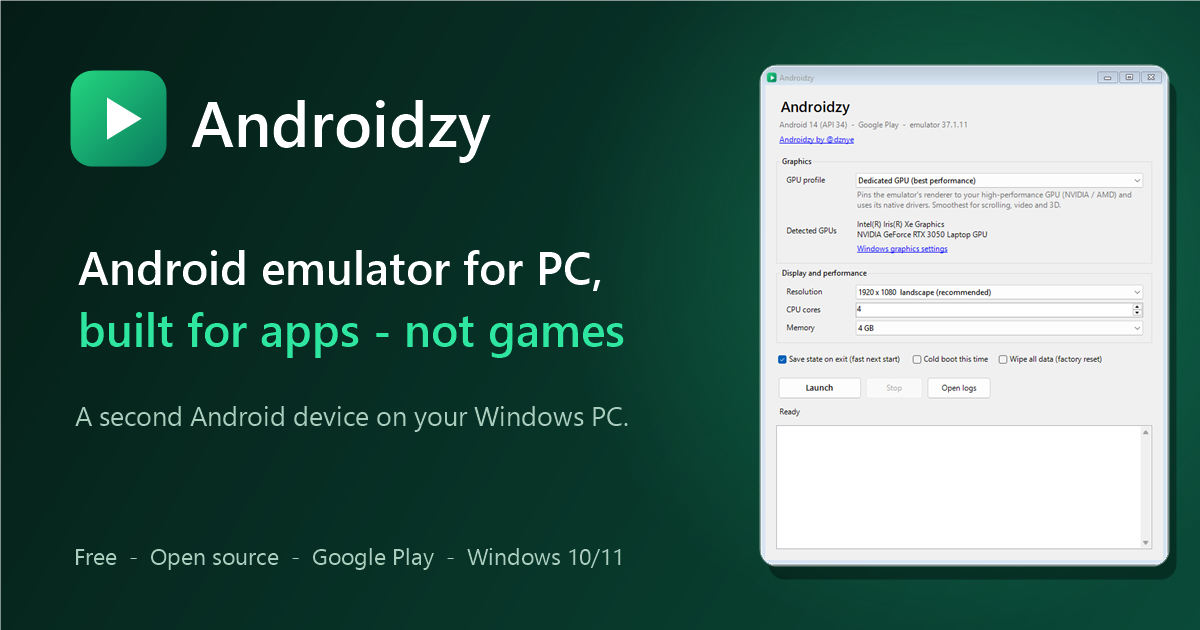
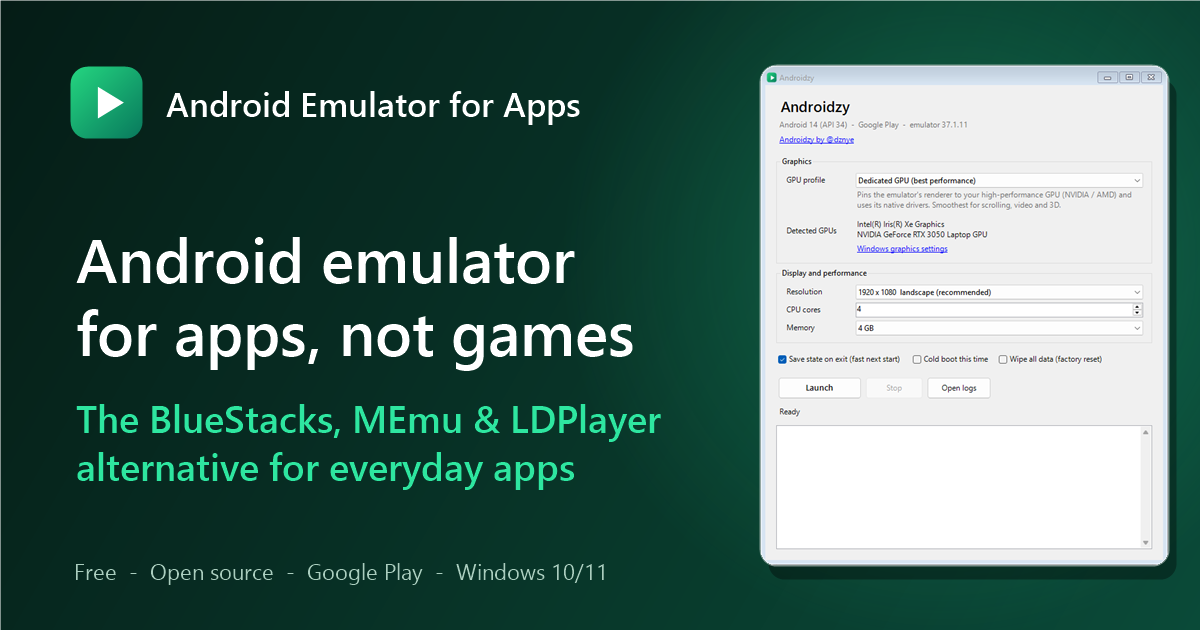
Re-brand the landing page around what people search for
Lead with "Android emulator for apps" and the BlueStacks / MEmu / LDPlayer
alternative framing in the title, H1, headings, FAQ and comparison table.
Androidzy stays the name of the app itself (download, window, structured
data), not the page brand. Honest trade-off section, trademark disclaimer,
new social card, shorter header name on phones.

diff --git a/docs/index.html b/docs/index.html
@@ -3,25 +3,25 @@
 <head>
 <meta charset="utf-8">
 <meta name="viewport" content="width=device-width, initial-scale=1">
-<title>Androidzy: Free Android Emulator for PC to Run Apps</title>
-<meta name="description" content="Androidzy is a free, open-source Android emulator for Windows built for apps, not games. Run Google Play apps on your PC as a second device.">
+<title>BlueStacks, MEmu &amp; LDPlayer Alternative | Android Emulator</title>
+<meta name="description" content="Free Android emulator for PC built for apps, not games. A BlueStacks, LDPlayer, MEmu and MuMu Player alternative with Google Play. Open source.">
 <link rel="canonical" href="https://dznye.github.io/Androidzy/">
 <meta name="robots" content="index, follow, max-image-preview:large">
 <meta name="theme-color" content="#0a7a55">
 <link rel="icon" type="image/svg+xml" href="favicon.svg">
 
 <meta property="og:type" content="website">
-<meta property="og:site_name" content="Androidzy">
-<meta property="og:title" content="Androidzy: Free Android Emulator for PC to Run Apps">
-<meta property="og:description" content="A second Android device on your Windows PC. Google Play, official Google emulator, GPU profiles. Built for apps, not games. Free and open source.">
+<meta property="og:site_name" content="Android Emulator for Apps">
+<meta property="og:title" content="BlueStacks, MEmu &amp; LDPlayer Alternative | Android Emulator">
+<meta property="og:description" content="A free alternative to BlueStacks, LDPlayer, MEmu and MuMu Player, built for apps instead of games: Android 14 with Google Play on your Windows PC, as a second device.">
 <meta property="og:url" content="https://dznye.github.io/Androidzy/">
 <meta property="og:image" content="https://dznye.github.io/Androidzy/og.png">
 <meta property="og:image:width" content="1200">
 <meta property="og:image:height" content="630">
-<meta property="og:image:alt" content="Androidzy: Android emulator for PC, built for apps, not games">
+<meta property="og:image:alt" content="Android emulator for apps: a BlueStacks, MEmu and LDPlayer alternative">
 <meta name="twitter:card" content="summary_large_image">
-<meta name="twitter:title" content="Androidzy: Free Android Emulator for PC to Run Apps">
-<meta name="twitter:description" content="A second Android device on your Windows PC. Google Play, official Google emulator, GPU profiles. Free and open source.">
+<meta name="twitter:title" content="BlueStacks, MEmu &amp; LDPlayer Alternative | Android Emulator">
+<meta name="twitter:description" content="Free Android emulator for PC built for apps, not games. Google Play, official Google emulator, GPU profiles. Open source.">
 <meta name="twitter:image" content="https://dznye.github.io/Androidzy/og.png">
 
 <script type="application/ld+json">
@@ -29,9 +29,11 @@
   "@context": "https://schema.org",
   "@type": "SoftwareApplication",
   "name": "Androidzy",
-  "description": "A free, open-source Android emulator launcher for Windows, built for running Android apps on a PC as a second device. Runs Google's official Android emulator with Google Play and GPU profiles.",
+  "alternateName": ["Androidzy Android emulator", "Android emulator for apps"],
+  "description": "Androidzy is a free, open-source Android emulator for Windows PC, built for running apps rather than games. An alternative to BlueStacks, LDPlayer, MEmu and MuMu Player that runs Google's official Android emulator with Google Play and GPU profiles.",
   "url": "https://dznye.github.io/Androidzy/",
   "applicationCategory": "UtilitiesApplication",
+  "applicationSubCategory": "Android emulator",
   "operatingSystem": "Windows 10, Windows 11",
   "softwareVersion": "1.0.0",
   "license": "https://opensource.org/license/mit",
@@ -59,8 +61,18 @@
   "mainEntity": [
     {
       "@type": "Question",
+      "name": "What is the best BlueStacks, MEmu or LDPlayer alternative for running apps?",
+      "acceptedAnswer": { "@type": "Answer", "text": "If you mostly run everyday apps rather than games, Androidzy is a simpler alternative. It launches Google's official Android emulator with Google Play and Android 14 on Windows, with no keymapping, macros or game store in the way. If you need keymapping, macros or several instances at once, BlueStacks, LDPlayer, MEmu or MuMu Player fit better." }
+    },
+    {
+      "@type": "Question",
       "name": "Is there an Android emulator for PC that is made for apps, not games?",
       "acceptedAnswer": { "@type": "Answer", "text": "Androidzy is. It runs the official Google Android Emulator with Google Play on Windows, but it is set up for everyday apps: a clean Android 14 device that starts in seconds, stays signed in, and has no keymapping, macros or game store in the way." }
+    },
+    {
+      "@type": "Question",
+      "name": "What is Androidzy?",
+      "acceptedAnswer": { "@type": "Answer", "text": "Androidzy is the name of the app. It is a free, open-source launcher for Google's official Android Emulator, set up for running apps on Windows. That is the name you will see on the download and in the app window." }
     },
     {
       "@type": "Question",
@@ -69,7 +81,7 @@
     },
     {
       "@type": "Question",
-      "name": "Can I use Androidzy as a second phone to keep work and personal accounts apart?",
+      "name": "Can I use it as a second phone to keep work and personal accounts apart?",
       "acceptedAnswer": { "@type": "Answer", "text": "Yes. Androidzy gives you a separate Android 14 device on your PC with its own Google account, apps and data, so work chat, email and social accounts stay apart from your personal phone. Use it for accounts you own or are authorised to manage." }
     },
     {
@@ -79,28 +91,23 @@
     },
     {
       "@type": "Question",
-      "name": "Does Androidzy include Google Play?",
+      "name": "Does it include Google Play?",
       "acceptedAnswer": { "@type": "Answer", "text": "It uses Google's official Android 14 system image with Google Play. Nothing from Google is bundled with Androidzy. On first run it downloads the emulator and image from Google's servers (about 2 GB) after you accept Google's license, or it reuses an Android Studio SDK you already have." }
     },
     {
       "@type": "Question",
-      "name": "Will banking and streaming apps work in Androidzy?",
+      "name": "Will banking and streaming apps work in an emulator?",
       "acceptedAnswer": { "@type": "Answer", "text": "Some may not. Banking, payment and DRM-protected streaming apps often check that they run on a certified physical phone and may block or limit any emulator. Androidzy does not try to hide that it is an emulator, so use a real phone for apps that require one." }
     },
     {
       "@type": "Question",
-      "name": "Is Androidzy free and safe?",
+      "name": "Is it free and safe?",
       "acceptedAnswer": { "@type": "Answer", "text": "It is free. The launcher is open source under the MIT license, so you can read exactly what it does, and emulator usage metrics are switched off. The download is not code-signed yet, so Windows SmartScreen may show a warning. You can also build it yourself from source." }
     },
     {
       "@type": "Question",
-      "name": "What do I need to run Androidzy?",
+      "name": "What do I need to run it?",
       "acceptedAnswer": { "@type": "Answer", "text": "Windows 10 or 11 (64-bit), a CPU with virtualization turned on in the BIOS, the Windows Hypervisor Platform feature, 8 GB of RAM (4 GB goes to Android by default) and about 6 GB of free disk space." }
-    },
-    {
-      "@type": "Question",
-      "name": "Is Androidzy an alternative to BlueStacks, LDPlayer or MuMu?",
-      "acceptedAnswer": { "@type": "Answer", "text": "For everyday apps, yes. Those players are built around games, with keymapping, macros and many simultaneous instances. Androidzy does less on purpose: one clean Android 14 device with GPU profiles. If you need keymapping or many instances at once, a gaming emulator fits better." }
     }
   ]
 }
@@ -137,22 +144,24 @@ a:hover{color:var(--accent-hover)}
 /* header */
 header.site{position:sticky;top:0;z-index:10;background:color-mix(in srgb,var(--bg) 88%,transparent);backdrop-filter:saturate(1.4) blur(10px);border-bottom:1px solid var(--line)}
 header.site .wrap{display:flex;align-items:center;gap:20px;height:64px}
-.brand{display:flex;align-items:center;gap:10px;font-weight:700;font-size:1.15rem;color:var(--text);text-decoration:none}
-.brand svg{width:30px;height:30px}
-nav{margin-left:auto;display:flex;align-items:center;gap:6px}
+.brand{display:flex;align-items:center;gap:10px;font-weight:700;font-size:1.05rem;color:var(--text);text-decoration:none;min-width:0}
+.brand svg{width:30px;height:30px;flex:none}
+.brand span{overflow:hidden;text-overflow:ellipsis;white-space:nowrap}
+@media (max-width:480px){.brand .wide{display:none}}
+nav{margin-left:auto;display:flex;align-items:center;gap:6px;flex:none}
 nav a{color:var(--muted);text-decoration:none;padding:8px 12px;border-radius:8px;font-size:.95rem}
 nav a:hover{color:var(--text);background:var(--soft)}
 nav a.btn-sm{background:var(--accent);color:var(--on-accent);font-weight:600}
 nav a.btn-sm:hover{background:var(--accent-hover);color:var(--on-accent)}
-@media (max-width:760px){nav a:not(.btn-sm){display:none}}
+@media (max-width:860px){nav a:not(.btn-sm){display:none}}
 
 /* hero */
 .hero{padding:64px 0 40px;background:radial-gradient(900px 400px at 85% -10%,color-mix(in srgb,var(--accent) 16%,transparent),transparent 70%)}
 .hero .wrap{display:grid;grid-template-columns:1.1fr .9fr;gap:48px;align-items:center}
 .eyebrow{display:inline-block;background:var(--soft);color:var(--soft-text);font-weight:600;font-size:.85rem;padding:6px 12px;border-radius:999px;margin:0 0 18px}
-h1{font-size:clamp(2.1rem,4.6vw,3.4rem);line-height:1.1;letter-spacing:-.02em;margin:0 0 18px}
+h1{font-size:clamp(1.9rem,4vw,3rem);line-height:1.12;letter-spacing:-.02em;margin:0 0 18px}
 h1 em{font-style:normal;color:var(--accent)}
-.lead{font-size:1.15rem;color:var(--muted);margin:0 0 26px;max-width:36em}
+.lead{font-size:1.12rem;color:var(--muted);margin:0 0 26px;max-width:36em}
 .cta{display:flex;flex-wrap:wrap;gap:12px;margin-bottom:22px}
 .btn{display:inline-flex;align-items:center;gap:8px;padding:13px 22px;border-radius:12px;font-weight:650;text-decoration:none;border:1px solid transparent;font-size:1rem}
 .btn.primary{background:var(--accent);color:var(--on-accent)}
@@ -168,7 +177,7 @@ h1 em{font-style:normal;color:var(--accent)}
 /* sections */
 section{padding:64px 0}
 section.alt{background:var(--surface);border-top:1px solid var(--line);border-bottom:1px solid var(--line)}
-h2{font-size:clamp(1.55rem,3vw,2.15rem);line-height:1.2;letter-spacing:-.015em;margin:0 0 12px}
+h2{font-size:clamp(1.5rem,3vw,2.1rem);line-height:1.2;letter-spacing:-.015em;margin:0 0 12px}
 .sub{color:var(--muted);max-width:42em;margin:0 0 34px;font-size:1.05rem}
 .grid{display:grid;grid-template-columns:repeat(auto-fit,minmax(290px,1fr));gap:18px}
 .card{background:var(--surface);border:1px solid var(--line);border-radius:var(--radius);padding:24px}
@@ -179,10 +188,11 @@ section.alt .card{background:var(--bg)}
 .notice{margin-top:26px;background:var(--warn-bg);border:1px solid var(--warn-line);color:var(--warn-text);border-radius:var(--radius);padding:18px 22px}
 .notice strong{display:block;margin-bottom:4px}
 .notice p{margin:0}
+.fair{margin-top:22px;color:var(--muted)}
 
 /* steps */
 ol.steps{list-style:none;margin:0 0 30px;padding:0;display:grid;grid-template-columns:repeat(auto-fit,minmax(230px,1fr));gap:18px;counter-reset:s}
-ol.steps li{counter-increment:s;background:var(--bg);border:1px solid var(--line);border-radius:var(--radius);padding:22px 22px 22px 22px}
+ol.steps li{counter-increment:s;background:var(--bg);border:1px solid var(--line);border-radius:var(--radius);padding:22px}
 ol.steps li::before{content:counter(s);display:grid;place-items:center;width:34px;height:34px;border-radius:50%;background:var(--accent);color:var(--on-accent);font-weight:700;margin-bottom:12px}
 ol.steps h3{margin:0 0 6px;font-size:1.05rem}
 ol.steps p{margin:0;color:var(--muted)}
@@ -223,17 +233,17 @@ footer p{margin:6px 0 0;max-width:46em}
 
 <header class="site">
   <div class="wrap">
-    <a class="brand" href="./" aria-label="Androidzy home">
+    <a class="brand" href="./" aria-label="Android emulator for apps - home">
       <svg viewBox="0 0 64 64" aria-hidden="true"><defs><linearGradient id="g" x1="0" y1="0" x2="1" y2="1"><stop offset="0" stop-color="#24d680"/><stop offset="1" stop-color="#08785c"/></linearGradient></defs><rect width="64" height="64" rx="14" fill="url(#g)"/><path d="M24 18v28l22-14z" fill="#fff"/></svg>
-      Androidzy
+      <span>Android Emulator<span class="wide"> for Apps</span></span>
     </a>
     <nav aria-label="Primary">
+      <a href="#why-alternative">Alternative to</a>
       <a href="#use-cases">Use cases</a>
-      <a href="#features">Features</a>
       <a href="#how-it-works">How it works</a>
       <a href="#compare">Compare</a>
       <a href="#faq">FAQ</a>
-      <a class="btn-sm" href="https://github.com/dznye/Androidzy">GitHub</a>
+      <a class="btn-sm" href="https://github.com/dznye/Androidzy/releases/latest/download/Androidzy.exe" rel="nofollow">Download</a>
     </nav>
   </div>
 </header>
@@ -243,9 +253,9 @@ footer p{margin:6px 0 0;max-width:46em}
 <section class="hero" aria-labelledby="top">
   <div class="wrap">
     <div>
-      <p class="eyebrow">Free Android emulator for Windows</p>
-      <h1 id="top">Android emulator for PC, built for apps <em>&mdash; not games</em></h1>
-      <p class="lead">Androidzy puts a clean Android 14 device with Google Play on your Windows desktop. Use it as a second phone for work chat, email and the accounts you manage, or to run mobile-only apps on a big screen.</p>
+      <p class="eyebrow">Free Android emulator for Windows PC</p>
+      <h1 id="top">Android emulator for apps: the <em>BlueStacks, MEmu &amp; LDPlayer alternative</em></h1>
+      <p class="lead">Built for apps, not games. Run a clean Android 14 device with Google Play on your Windows desktop, as a second phone for work chat, email and the accounts you manage. The app you install is called Androidzy.</p>
       <div class="cta">
         <a class="btn primary" href="https://github.com/dznye/Androidzy/releases/latest/download/Androidzy.exe" rel="nofollow">Download for Windows &mdash; free</a>
         <a class="btn ghost" href="#how-it-works">See how it works</a>
@@ -254,18 +264,31 @@ footer p{margin:6px 0 0;max-width:46em}
       <ul class="chips">
         <li>Free &amp; open source (MIT)</li>
         <li>Official Google emulator</li>
-        <li>Windows 10 &amp; 11</li>
+        <li>Google Play included</li>
         <li>No ads in the launcher</li>
       </ul>
     </div>
-    <img class="shot" src="screenshot.png" width="636" height="779" alt="Androidzy launcher window showing GPU profile, resolution, CPU and memory settings and a Launch button">
+    <img class="shot" src="screenshot.png" width="636" height="779" alt="Androidzy, an Android emulator for PC, showing GPU profile, resolution, CPU and memory settings and a Launch button">
+  </div>
+</section>
+
+<section id="why-alternative" class="alt" aria-labelledby="wa-h">
+  <div class="wrap">
+    <h2 id="wa-h">Looking for a BlueStacks, MEmu or LDPlayer alternative for apps?</h2>
+    <p class="sub">BlueStacks, LDPlayer, MEmu and MuMu Player are very good at games. If you mostly run everyday apps, you are carrying features you never use.</p>
+    <div class="grid">
+      <article class="card"><h3>Built around games</h3><p>Gaming emulators are designed around keymapping, macros, controller support and many simultaneous instances. For apps like chat, email and social accounts you rarely need any of it.</p></article>
+      <article class="card"><h3>Google's own emulator</h3><p>Androidzy launches the same emulator Android Studio uses, running Android 14 with Google Play. Nothing is layered on top: no custom store, no bundled extras.</p></article>
+      <article class="card"><h3>Free and open</h3><p>Some gaming emulators have ad-supported free tiers or paid plans. The Androidzy launcher is free, open source (MIT) and has no ads.</p></article>
+    </div>
+    <p class="fair"><strong>Be honest about the trade-off:</strong> if you need keymapping, macros or several Android instances running at once, BlueStacks, LDPlayer, MEmu or MuMu Player are the better fit. Androidzy runs one clean device, on purpose.</p>
   </div>
 </section>
 
 <section id="use-cases" aria-labelledby="uc-h">
   <div class="wrap">
     <h2 id="uc-h">Run Android apps on your PC, as a second device</h2>
-    <p class="sub">Most Android emulators are marketed for games. Androidzy is for everything else you do on a phone, on the computer you already sit at all day.</p>
+    <p class="sub">An Android emulator for everything you do on a phone besides games, on the computer you already sit at all day.</p>
     <div class="grid">
       <article class="card"><div class="icon" aria-hidden="true">&#128188;</div><h3>A second phone for work</h3><p>Keep Slack, Teams, Gmail or Telegram on your PC, separate from your personal phone. Close the window and work is off.</p></article>
       <article class="card"><div class="icon" aria-hidden="true">&#128101;</div><h3>Accounts you own or manage</h3><p>Sign in to as many accounts as each app allows. Instagram, for example, lets you add up to five on one device. Handy for creators, small businesses and social media managers.</p></article>
@@ -276,21 +299,21 @@ footer p{margin:6px 0 0;max-width:46em}
     </div>
     <div class="notice" role="note">
       <strong>Use it responsibly</strong>
-      <p>Androidzy is for accounts you own or are authorised to manage. It does not hide that it is an emulator and it is not a tool for getting around platform rules. Some apps, including many banking apps and DRM-protected streaming apps, check for a certified physical phone and may block any emulator.</p>
+      <p>Use it for accounts you own or are authorised to manage. It does not hide that it is an emulator and it is not a tool for getting around platform rules. Some apps, including many banking apps and DRM-protected streaming apps, check for a certified physical phone and may block any emulator.</p>
     </div>
   </div>
 </section>
 
 <section id="features" class="alt" aria-labelledby="f-h">
   <div class="wrap">
-    <h2 id="f-h">Why Androidzy for everyday apps</h2>
-    <p class="sub">Small, quiet and out of your way. It launches Google's own emulator with sensible settings and nothing else.</p>
+    <h2 id="f-h">Why this Android emulator suits everyday apps</h2>
+    <p class="sub">Small, quiet and out of your way. Androidzy launches Google's own emulator with sensible settings and nothing else.</p>
     <div class="grid">
       <article class="card"><h3>The official Google emulator</h3><p>The same emulator Android Studio uses, running Android 14 with Google Play. No third-party Android fork, no bundled store.</p></article>
       <article class="card"><h3>GPU profiles that stick</h3><p>Laptops with two graphics chips often render on the wrong one. Choose Dedicated, Integrated, Windows default or Software and Androidzy pins OpenGL and Vulkan to the same GPU. The status line shows which one is in use.</p></article>
       <article class="card"><h3>Back in seconds</h3><p>Quick-boot snapshots restore your device, signed in and where you left it. On our test PC the snapshot restores in about a second.</p></article>
       <article class="card"><h3>Zero setup</h3><p>Reuses the Android SDK you already have, or downloads the emulator and Android 14 image from Google on first run (about 2 GB) after you accept Google's license.</p></article>
-      <article class="card"><h3>Tiny and open</h3><p>One 60 KB executable, MIT-licensed source, emulator usage metrics switched off. Read every line on GitHub.</p></article>
+      <article class="card"><h3>Tiny and open</h3><p>One 62 KB executable, MIT-licensed source, emulator usage metrics switched off. Read every line on GitHub.</p></article>
       <article class="card"><h3>Only the controls you need</h3><p>Resolution presets, CPU and memory, cold boot, factory reset and logs. No keymapping, macros or game store in the way.</p></article>
     </div>
   </div>
@@ -301,8 +324,8 @@ footer p{margin:6px 0 0;max-width:46em}
     <h2 id="h-h">How to run Android apps on Windows 10 and 11</h2>
     <p class="sub">Four steps from download to your first app.</p>
     <ol class="steps">
-      <li><h3>Get Androidzy</h3><p>Download the single small <a href="https://github.com/dznye/Androidzy/releases/latest/download/Androidzy.exe" rel="nofollow">Androidzy.exe</a>, or build it yourself with one script. Windows may show a SmartScreen warning because it is not code-signed yet.</p></li>
-      <li><h3>First-run setup</h3><p>Accept Google's license and Androidzy fetches the emulator and Android 14 image (about 2 GB), or it reuses your Android Studio SDK.</p></li>
+      <li><h3>Get the app</h3><p>Download the single small <a href="https://github.com/dznye/Androidzy/releases/latest/download/Androidzy.exe" rel="nofollow">Androidzy.exe</a>, or build it yourself with one script. Windows may show a SmartScreen warning because it is not code-signed yet.</p></li>
+      <li><h3>First-run setup</h3><p>Accept Google's license and it fetches the emulator and Android 14 image (about 2 GB), or it reuses your Android Studio SDK.</p></li>
       <li><h3>Press Launch</h3><p>Pick a GPU profile and a window size, then launch. Android boots in a normal window.</p></li>
       <li><h3>Sign in and install</h3><p>Open Google Play, sign in and install your apps. Quick-boot keeps them ready for next time.</p></li>
     </ol>
@@ -322,20 +345,23 @@ footer p{margin:6px 0 0;max-width:46em}
 <section class="alt" aria-labelledby="wsa-h">
   <div class="wrap">
     <h2 id="wsa-h">Windows Subsystem for Android is gone. What now?</h2>
-    <p class="sub" style="margin-bottom:0">Microsoft ended support for Windows Subsystem for Android on March 5, 2025, which removed the built-in way to run Android apps on Windows 11. Phone Link can mirror a supported phone and Google Play Games on PC covers games. If you want general apps with Google Play on your PC, you need an emulator, and Androidzy is built for exactly that.</p>
+    <p class="sub" style="margin-bottom:0">Microsoft ended support for Windows Subsystem for Android on March 5, 2025, which removed the built-in way to run Android apps on Windows 11. Phone Link can mirror a supported phone and Google Play Games on PC covers games. If you want general apps with Google Play on your PC, you need an emulator, either a gaming one like BlueStacks, LDPlayer, MEmu or MuMu Player, or this one, which is built for apps.</p>
   </div>
 </section>
 
 <section id="compare" aria-labelledby="c-h">
   <div class="wrap">
-    <h2 id="c-h">Ways to run Android apps on a PC, compared</h2>
-    <p class="sub">Pick the tool that matches what you actually do.</p>
+    <h2 id="c-h">BlueStacks vs LDPlayer vs MEmu vs MuMu Player: which Android emulator for apps?</h2>
+    <p class="sub">They overlap a lot. Pick the tool that matches what you actually do.</p>
     <div class="table-wrap">
       <table>
         <thead><tr><th scope="col">Option</th><th scope="col">Best for</th><th scope="col">Google Play</th><th scope="col">Cost</th><th scope="col">Several devices at once</th></tr></thead>
         <tbody>
           <tr class="me"><th scope="row">Androidzy</th><td>Everyday apps on a second device</td><td>Yes</td><td>Free, open-source launcher</td><td>Not yet</td></tr>
-          <tr><th scope="row">Gaming emulators (BlueStacks, LDPlayer, MuMu)</th><td>Games: keymapping, macros, controllers</td><td>Yes</td><td>Free tiers; some include ads or paid plans</td><td>Yes</td></tr>
+          <tr><th scope="row">BlueStacks</th><td>Games first: keymapping, macros</td><td>Yes</td><td>Free tier; ads or paid plans may apply</td><td>Yes</td></tr>
+          <tr><th scope="row">LDPlayer</th><td>Games first: keymapping, controllers</td><td>Yes</td><td>Free tier; ads or paid plans may apply</td><td>Yes</td></tr>
+          <tr><th scope="row">MEmu</th><td>Games first: keymapping, multi-instance</td><td>Yes</td><td>Free tier; ads or paid plans may apply</td><td>Yes</td></tr>
+          <tr><th scope="row">MuMu Player</th><td>Games first, aimed at lower-spec PCs</td><td>Yes</td><td>Free tier; ads or paid plans may apply</td><td>Yes</td></tr>
           <tr><th scope="row">Android Studio emulator</th><td>App developers</td><td>Yes, with Play images</td><td>Free, needs the full IDE</td><td>Yes</td></tr>
           <tr><th scope="row">Phone Link</th><td>Mirroring your own phone</td><td>Uses your phone's apps</td><td>Free</td><td>No</td></tr>
           <tr><th scope="row">Windows Subsystem for Android</th><td>Discontinued</td><td>&mdash;</td><td>&mdash;</td><td>&mdash;</td></tr>
@@ -359,32 +385,35 @@ footer p{margin:6px 0 0;max-width:46em}
     <h2 id="q-h">Frequently asked questions</h2>
     <p class="sub">Straight answers, including the limits.</p>
 
+    <details><summary>What is the best BlueStacks, MEmu or LDPlayer alternative for running apps?</summary>
+      <p>If you mostly run everyday apps rather than games, Androidzy is a simpler alternative. It launches Google's official Android emulator with Google Play and Android 14 on Windows, with no keymapping, macros or game store in the way. If you need keymapping, macros or several instances at once, BlueStacks, LDPlayer, MEmu or MuMu Player fit better.</p></details>
+
     <details><summary>Is there an Android emulator for PC that is made for apps, not games?</summary>
       <p>Androidzy is. It runs the official Google Android Emulator with Google Play on Windows, but it is set up for everyday apps: a clean Android 14 device that starts in seconds, stays signed in, and has no keymapping, macros or game store in the way.</p></details>
+
+    <details><summary>What is Androidzy?</summary>
+      <p>Androidzy is the name of the app. It is a free, open-source launcher for Google's official Android Emulator, set up for running apps on Windows. That is the name you will see on the download and in the app window.</p></details>
 
     <details><summary>How do I run Android apps on Windows 11 now that Windows Subsystem for Android is gone?</summary>
       <p>Microsoft ended support for Windows Subsystem for Android on March 5, 2025. Phone Link can mirror a supported phone and Google Play Games on PC covers games. For general apps you need an emulator: install Androidzy, accept Google's license on first run, sign in to Google Play and install your apps.</p></details>
 
-    <details><summary>Can I use Androidzy as a second phone to keep work and personal accounts apart?</summary>
+    <details><summary>Can I use it as a second phone to keep work and personal accounts apart?</summary>
       <p>Yes. Androidzy gives you a separate Android 14 device on your PC with its own Google account, apps and data, so work chat, email and social accounts stay apart from your personal phone. Use it for accounts you own or are authorised to manage.</p></details>
 
     <details><summary>Can I sign in to multiple accounts or run multiple instances?</summary>
       <p>Within each app's own limits, yes. Instagram lets you add up to five accounts and Telegram supports several, and Android lets you add multiple Google accounts. Some services, such as WhatsApp, tie an account to a phone number, so a second account needs its own number. Androidzy currently runs one Android device at a time. Running several side by side is not supported yet.</p></details>
 
-    <details><summary>Does Androidzy include Google Play?</summary>
+    <details><summary>Does it include Google Play?</summary>
       <p>It uses Google's official Android 14 system image with Google Play. Nothing from Google is bundled with Androidzy. On first run it downloads the emulator and image from Google's servers (about 2 GB) after you accept Google's license, or it reuses an Android Studio SDK you already have.</p></details>
 
-    <details><summary>Will banking and streaming apps work in Androidzy?</summary>
+    <details><summary>Will banking and streaming apps work in an emulator?</summary>
       <p>Some may not. Banking, payment and DRM-protected streaming apps often check that they run on a certified physical phone and may block or limit any emulator. Androidzy does not try to hide that it is an emulator, so use a real phone for apps that require one.</p></details>
 
-    <details><summary>Is Androidzy free and safe?</summary>
+    <details><summary>Is it free and safe?</summary>
       <p>It is free. The launcher is open source under the MIT license, so you can read exactly what it does, and emulator usage metrics are switched off. The download is not code-signed yet, so Windows SmartScreen may show a warning. You can also build it yourself from source.</p></details>
 
-    <details><summary>What do I need to run Androidzy?</summary>
+    <details><summary>What do I need to run it?</summary>
       <p>Windows 10 or 11 (64-bit), a CPU with virtualization turned on in the BIOS, the Windows Hypervisor Platform feature, 8 GB of RAM (4 GB goes to Android by default) and about 6 GB of free disk space.</p></details>
-
-    <details><summary>Is Androidzy an alternative to BlueStacks, LDPlayer or MuMu?</summary>
-      <p>For everyday apps, yes. Those players are built around games, with keymapping, macros and many simultaneous instances. Androidzy does less on purpose: one clean Android 14 device with GPU profiles. If you need keymapping or many instances at once, a gaming emulator fits better.</p></details>
   </div>
 </section>
 
@@ -395,8 +424,8 @@ footer p{margin:6px 0 0;max-width:46em}
     <div class="row">
       <div>
         <strong>Androidzy by <a href="https://github.com/dznye">@dznye</a></strong>
-        <p>Android emulator for Windows PC, built for running apps. MIT licensed.</p>
-        <p>Androidzy is an independent project and is not affiliated with, sponsored by or endorsed by Google. Android and Google Play are trademarks of Google LLC. The Android Emulator, platform tools and system image are provided by Google under the <a href="https://developer.android.com/studio/terms">Android SDK License Agreement</a>.</p>
+        <p>A free Android emulator for Windows PC, built for running apps. MIT licensed.</p>
+        <p>Androidzy is an independent project and is not affiliated with, sponsored by or endorsed by Google, BlueStacks, MEmu, MuMu Player or LDPlayer. Android and Google Play are trademarks of Google LLC. BlueStacks, MEmu, MuMu Player and LDPlayer are trademarks of their respective owners and are named here only for comparison. The Android Emulator, platform tools and system image are provided by Google under the <a href="https://developer.android.com/studio/terms">Android SDK License Agreement</a>.</p>
       </div>
       <div>
         <a href="https://github.com/dznye/Androidzy">Source on GitHub</a><br>

diff --git a/README.md b/README.md
@@ -1,6 +1,6 @@
-# Androidzy
+# Android emulator for apps: a BlueStacks, MEmu & LDPlayer alternative (Androidzy)
 
-**Androidzy by [@dznye](https://github.com/dznye)** - a free Android emulator for Windows PC, built for running **apps** (not just games). A second Android device on your desktop with real Google Play, the official Google emulator and one-click GPU profiles.
+**Androidzy by [@dznye](https://github.com/dznye)** - a free, open-source Android emulator for Windows PC, built for running **apps** (not games). A simpler alternative to BlueStacks, LDPlayer, MEmu and MuMu Player if all you want is Android apps on your desktop: a second Android device with real Google Play, the official Google emulator and one-click GPU profiles. *Androidzy is the name of the app you install.*
 
 Website: **https://dznye.github.io/Androidzy/**
 
